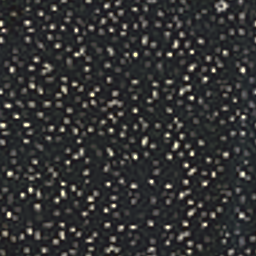
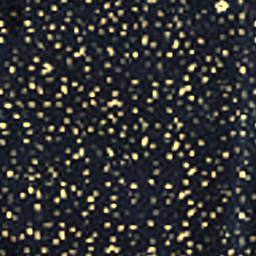
cabin777 econ w20 candidate (part 2, rating pending): gap19 items 1-3 - Y tiles re-cut (tick crop rotated 7 deg upright, 0.29 m, floor 0.05, column lift 0.15; fleck floor 0.15, core exp 0.9; 0.5-2.5 cm band boost on tick / fleck / mosaic), pillow 0.33 x 0.27 higher and more upright with a piped seam
Claude-Session: https://claude.ai/code/session_01DzXeEXoKNR2eZmv38zfYXe

diff --git a/cabin777/src/09a_econ.js b/cabin777/src/09a_econ.js
@@ -108,9 +108,10 @@ function econSeat(B, x0, lod, opts = {}) {
   // w6 B: 0.255 wide (y_47300 0.23 / y_47306 0.73 of the pad); the hem hangs nearly flat (at -20 deg it read as a shelf)
   // w8 B: a soft flap, not a tablet - the plate bows ~4 mm forward mid-height, the fold is a thin strip bent over the
   // pad top, with a stitch line above the hem (y_47301, y_47306)
+  // w20 (gap19): bow cut 4 -> ~1.5 mm (the bulge mirrored the ceiling as a crinkle head-on)
   // w10 A + B: the flap hangs ~3 cm below the pad (y_47306 / sans 13: 24-29 % of the pad height), its foot tipped a
   // little forward, and rolls round the pad top in a soft radius (was a hard bevel)
-  loftAt(B, [SEC(0.575, 0.255, 0.005, -0.12, 0.002), SEC(0.61, 0.256, 0.005, -0.111, 0.002), SEC(0.655, 0.257, 0.005, -0.1015, 0.002), SEC(0.705, 0.258, 0.005, -0.1025, 0.002), SEC(0.755, 0.257, 0.005, -0.1015, 0.002), SEC(0.791, 0.255, 0.005, -0.0985, 0.002)], BH, SEATMAT.yCover, lod ? 1 : 2);
+  loftAt(B, [SEC(0.575, 0.255, 0.005, -0.12, 0.002), SEC(0.61, 0.256, 0.005, -0.111, 0.002), SEC(0.655, 0.257, 0.005, -0.1035, 0.002), SEC(0.705, 0.258, 0.005, -0.104, 0.002), SEC(0.755, 0.257, 0.005, -0.1035, 0.002), SEC(0.791, 0.255, 0.005, -0.0985, 0.002)], BH, SEATMAT.yCover, lod ? 1 : 2);
   loftAt(B, [SEC(0.789, 0.255, 0.006, -0.0985, 0.003), SEC(0.8, 0.255, 0.012, -0.094, 0.005), SEC(0.807, 0.255, 0.02, -0.086, 0.007), SEC(0.81, 0.255, 0.028, -0.073, 0.008), SEC(0.807, 0.255, 0.02, -0.06, 0.006)], BH, SEATMAT.yCover, lod ? 1 : 3);
   if (lod) return;
   // small ANA mark in the flap's lower corner (viewer's right from the front, y_47306); w5 B: a thin grey logotype, not a sticker
@@ -136,11 +137,19 @@ function econSeat(B, x0, lod, opts = {}) {
       const X = sx * (1 + 0.35 * sz * sz) * (0.92 + 0.08 * l), Z = sz * (1 + 0.35 * sx * sx) * (0.92 + 0.08 * l);   // w10 gap: smooth squircle (|t|^0.45 creased the middle)
       // w6: wider (0.39 = 0.8 of the pan, y_47300 0.81 / sans 14 0.83), bow-tie outline with pinched corners
       const pull = 1 + 0.15 * Math.abs(X * Z);                                  // w9 A: corners pulled out (y_47300)
-      g.p[k] = 0.195 * X * (1 - 0.06 * (1 - Z * Z)) * pull; g.p[k + 2] = 0.145 * Z * (1 - 0.1 * (1 - X * X) - (Z > 0 ? 0.04 * (1 - X * X) : 0)) * pull;   // w14 gap: concave top edge   // w10 B: waist eased (read as a bone)
+      g.p[k] = 0.165 * X * (1 - 0.06 * (1 - Z * Z)) * pull; g.p[k + 2] = 0.135 * Z * (1 - 0.1 * (1 - X * X) - (Z > 0 ? 0.04 * (1 - X * X) : 0)) * pull;   // w14 gap: concave top edge   // w10 B: waist eased (read as a bone)
       g.p[k + 1] = sy * (0.006 + 0.046 * Math.pow(Math.max(0, 1 - Math.pow(l, 3)), 0.6));   // thins to the seamed rim; w14 gap: ~10 cm full (p90/p10 1.3 vs 2.2-2.8 in y_47300 read as a board)
     }
     computeNormals(g);
-    B.add(g, M4.mul(BH, M4.trs(0, 0.15, -0.12, 0, -76 * DEG)), SEATMAT.yPillow);
+    // w20 (gap19): 0.33 x 0.27 (0.77 of the back, y_47300 matched view; 0.93 read as one dark strip), 4 cm higher and 4 deg
+    // more upright so its foot just meets the pan instead of sinking into the crease [D]
+    B.add(g, M4.mul(BH, M4.trs(0, 0.19, -0.115, 0, -80 * DEG)), SEATMAT.yPillow);
+    // w19 A + B: a ~4 mm piped seam round the rim (y_47300 pillows), the same outline law at l = 1 [D]
+    const rim = []; for (let i = 0; i <= 48; i++) {
+      const t = i / 48 * 2 * Math.PI, sx = Math.cos(t), sz = Math.sin(t), X = sx * (1 + 0.35 * sz * sz), Z = sz * (1 + 0.35 * sx * sx), pull = 1 + 0.15 * Math.abs(X * Z);
+      rim.push([0.165 * X * (1 - 0.06 * (1 - Z * Z)) * pull, 0, 0.135 * Z * (1 - 0.1 * (1 - X * X) - (Z > 0 ? 0.04 * (1 - X * X) : 0)) * pull]);
+    }
+    B.add(gTube(rim, 0.0035, 6, false), M4.mul(BH, M4.trs(0, 0.19, -0.115, 0, -80 * DEG)), { ...SEATMAT.yPillow, c: '#323a54' });
   }
   // life-vest pouch: dark saucer-shaped holder under the pan front with a red pull strap hanging from its rim (y_47302:
   // ~0.15-0.18 m discs under each seat) [D]

diff --git a/cabin777/src/09_seats.js b/cabin777/src/09_seats.js
@@ -28,7 +28,7 @@ const SEATMAT = {
   yHead: { c: photoBase('#566088', 'y_fleck'), r: 0.9, l: LAYER.yFleck },
   // slate-grey leatherette cover, lighter + greyer than the fabric (y_47302 #474960-#4d526f, y_47306 #445072,
   // y_47301 #434765; QA r2 was #3e4661 -> rendered as black slabs)
-  yCover: { c: '#262b44', r: 0.3, l: LAYER.plastic },     // w19 A + B: darker head-on, glossier so the grazing views catch the cove / bin sheen (Fresnel), plastic grain (leather read as hammered metal at low r, as pyCover w11); w16 A + B: head-on L 55-70 vs 35-62 in y_47300 -> darker; w17 A: middle covers brightest head-on (specular); w18 A + B: #2a2f45 r 0.6 too dark off-axis (L36 vs 65-83) -> between;     // w14 A + B: slate, not navy (B/R 2.04 vs 1.61), darker head-on (cover/back 0.74-1.02 vs 0.54-0.77 in y_47300), glossier for the grazing silver-grey (y_47301 / 47303);     // econ w2: smooth leatherette; w5: q15 L 110 vs y_47300 #272d48 L 47 -> darker; w6 A: q16 cover/back 0.58 vs y_47301 0.82 -> a shade lighter; w7 A + B: R/B 0.46 vs 0.52-0.74 -> slate; w9 A: q16 L50 57-66 vs y_47301 / 47303 / 47306 67-104, covers 1.25-1.7x the backs -> lighter, satin; w10 A + B: q15 head-on 1.6-2.9x the backs vs 0.5-0.75 in y_47300 -> a shade darker; w10 gap: satin sheen (highlight/mid 1.11 vs 1.6-2.7; the leather grain layer read as hammered metal at r 0.34; w11 A + B: head-on 1.1-1.45x the backs vs 0.54-0.9 -> darker, leather at r 0.5; w12 A + B: still 0.91-1.19 -> #3a4060 r 0.62)
+  yCover: { c: '#262b44', r: 0.38, l: LAYER.none },     // w20 (gap19): smooth sheet, r 0.38 (r 0.3 + grain mirrored the ceiling head-on as grey crinkled foil in q15); w19 A + B: darker head-on, glossier so the grazing views catch the cove / bin sheen (Fresnel); w16 A + B: head-on L 55-70 vs 35-62 in y_47300 -> darker; w17 A: middle covers brightest head-on (specular); w18 A + B: #2a2f45 r 0.6 too dark off-axis (L36 vs 65-83) -> between;     // w14 A + B: slate, not navy (B/R 2.04 vs 1.61), darker head-on (cover/back 0.74-1.02 vs 0.54-0.77 in y_47300), glossier for the grazing silver-grey (y_47301 / 47303);     // econ w2: smooth leatherette; w5: q15 L 110 vs y_47300 #272d48 L 47 -> darker; w6 A: q16 cover/back 0.58 vs y_47301 0.82 -> a shade lighter; w7 A + B: R/B 0.46 vs 0.52-0.74 -> slate; w9 A: q16 L50 57-66 vs y_47301 / 47303 / 47306 67-104, covers 1.25-1.7x the backs -> lighter, satin; w10 A + B: q15 head-on 1.6-2.9x the backs vs 0.5-0.75 in y_47300 -> a shade darker; w10 gap: satin sheen (highlight/mid 1.11 vs 1.6-2.7; the leather grain layer read as hammered metal at r 0.34; w11 A + B: head-on 1.1-1.45x the backs vs 0.54-0.9 -> darker, leather at r 0.5; w12 A + B: still 0.91-1.19 -> #3a4060 r 0.62)
   yShell: { c: '#d9dbde', r: 0.42, l: LAYER.plastic },
   yShellDark: { c: '#c2c5c9', r: 0.5, l: LAYER.plastic },
   yTray: { c: '#cfd2d6', r: 0.4, l: LAYER.plastic },

diff --git a/cabin777/test/make_swatches.py b/cabin777/test/make_swatches.py
@@ -266,7 +266,9 @@ def make(name, photo, box, size, rot=0):
 #        at row distance - tick p90/p50 1.81 vs 2.27, mosaic 1.59 vs 2.14; diamond stars ~20 % too strong) [D]
 Y_PHOTO = {
     # middle seat back, chevron tick columns; cover 0.27 m = 165 px -> 611 px/m, 152 px = 0.249 m [D]
-    'y_tick':    ('y_47306', (260, 385, 412, 537), 0.249, 14, 0, 0.15, 0.95, 0.15),
+    # econ w20 (gap19): the crop's columns lean 7 deg (oblique seat) and cancelled out over a back -> rotated upright; 0.29 m
+    # (~13 mm column pitch, y_47300); floor 0.05 so the dark channels reach the photo's p10 [D]
+    'y_tick':    ('y_47306', (260, 385, 412, 537), 0.29, 14, 7, 0.15, 0.95, 0.05),
     # left seat back, harlequin diamonds; seen obliquely: cover 108 px wide (423 px/m) but 133 px tall for 0.235 m
     # (566 px/m) -> the 82 x 115 crop is stretched 1.34x in x to a square 0.203 m [D]
     'y_diamond': ('y_47306', (62, 358, 144, 473), 0.203, 30, 0, 0.3, 0.8, 0.0),
@@ -275,7 +277,7 @@ Y_PHOTO = {
     # (w15 B) and 27 % bright against 11 % -> cores only, tinted pale blue; at 0.18 m they vanished at row distance (w16 A
     # + B: 8 % vs 21 % cover in q15) -> 0.24 m; w17: round pebbles close up and too blue (B/R 2.05 vs 1.62) -> cores
     # near-neutral tint; pinching the cores (w18) lost them at row distance again -> w17 cores [D]
-    'y_fleck':   ('y_47300', (352, 308, 447, 403), 0.24, 8, 0, 0.0, 0.8, 0.3),
+    'y_fleck':   ('y_47300', (352, 308, 447, 403), 0.24, 8, 0, 0.0, 0.8, 0.15),     # w20 (gap19): floor 0.3 flattened the ground
     # right seat back below the cover: dash mosaic; cover 0.255 m = 270 px -> 1059 px/m, 135 px = 0.128 m [D]; rows
     # levelled by 3 deg (perspective tilt)
     'y_mosaic':  ('y_47306', (560, 427, 695, 562), 0.128, 14, 3, 0.3, 1.15, 0.1),
@@ -350,12 +352,19 @@ def y_photo(name):
         # w16 A: the stitch columns wash out under minification (q15 column CV 0.05-0.07 vs 0.24 in y_47300): lift the
         # photo's own column profile (mean down each column) 1.6x so the dark channels survive the mip chain [D]
         c = r.mean(2).mean(0, keepdims=True); c = c / c.mean()
-        r = r * (c ** 0.6)[..., None]                   # w18 A: 2x only over-sharpened the close-ups; the rest is mip filtering (from_econ)
+        r = r * (c ** 0.15)[..., None]                  # w20 (gap19): straight columns carry their own profile; 0.6 over-sharpened close up
     if name == 'y_fleck':
         # the 3.4 mm/px source smears each 3-5 mm fleck over ~3 px: keep only the core of the excess over the ground
         # (bright area 27 % -> ~12 %, y_47306 pad 11 %) and tint it pale blue (#9fb0e0 vs white, w15 A) [D]
         g = np.median(r.mean(2)); e = np.maximum(r - g, 0); ep = e.max()
-        r = np.minimum(r, g) + ep * (e / ep) ** 1.25 * np.array([0.95, 1.0, 1.02], np.float32)
+        r = np.minimum(r, g) + ep * (e / ep) ** 0.9 * np.array([0.95, 1.0, 1.02], np.float32)   # w20 (gap19): 1.25 thinned the flecks away at row distance
+    # w20 (gap19): the 0.5-2.5 cm band (columns, flecks, dashes) is what survives at row distance; boost it in log luminance and
+    # damp the < 1.2 mm JPEG grain (tile CV at 150 px/m: tick 0.31 vs 0.46-0.49 in y_47300, fleck 0.31 vs 0.84) [D]
+    gb, gf = {'y_tick': (1.0, 0.3), 'y_fleck': (1.2, 0.0), 'y_mosaic': (0.6, 0.2)}.get(name, (0.0, 0.0))
+    if gb or gf:
+        lg = np.log(np.maximum(r.mean(2), 1e-3)); ppm = S / size
+        b1, b2, b0 = _blur_wrap(lg, 0.005 * ppm), _blur_wrap(lg, 0.025 * ppm), _blur_wrap(lg, 0.0012 * ppm)
+        r = r * np.exp(gb * (b1 - b2) - gf * (lg - b0))[..., None]
     r /= r.reshape(-1, 3).mean(0)
     enc = ENC[name]
     lum = r.mean(2, keepdims=True); lim = enc * 0.95                # clip glints (as make())
